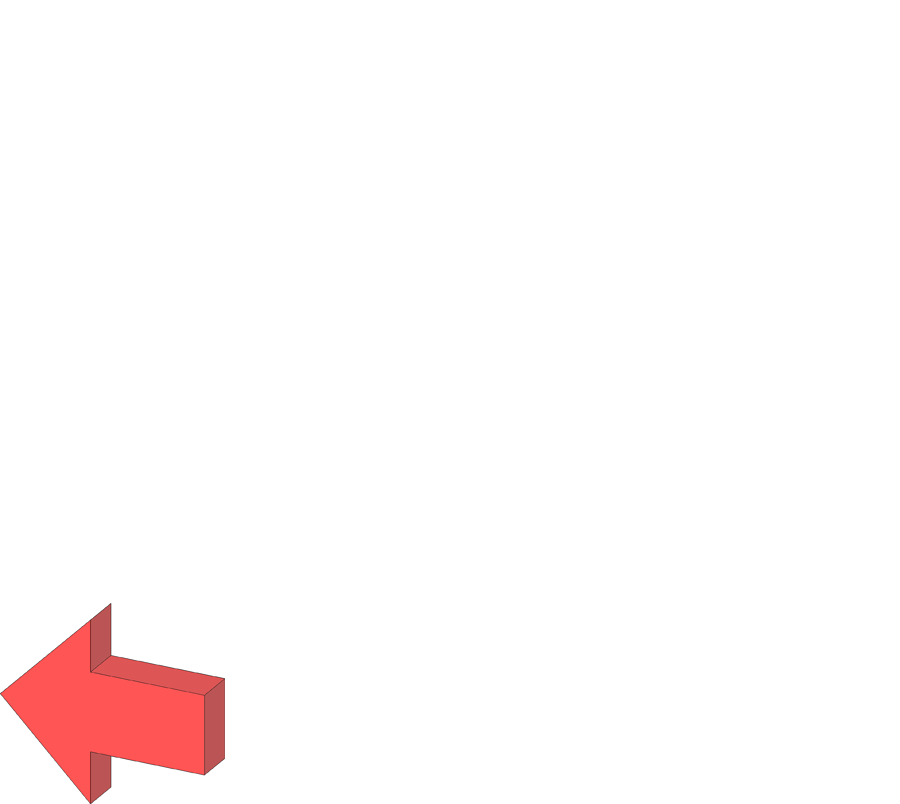
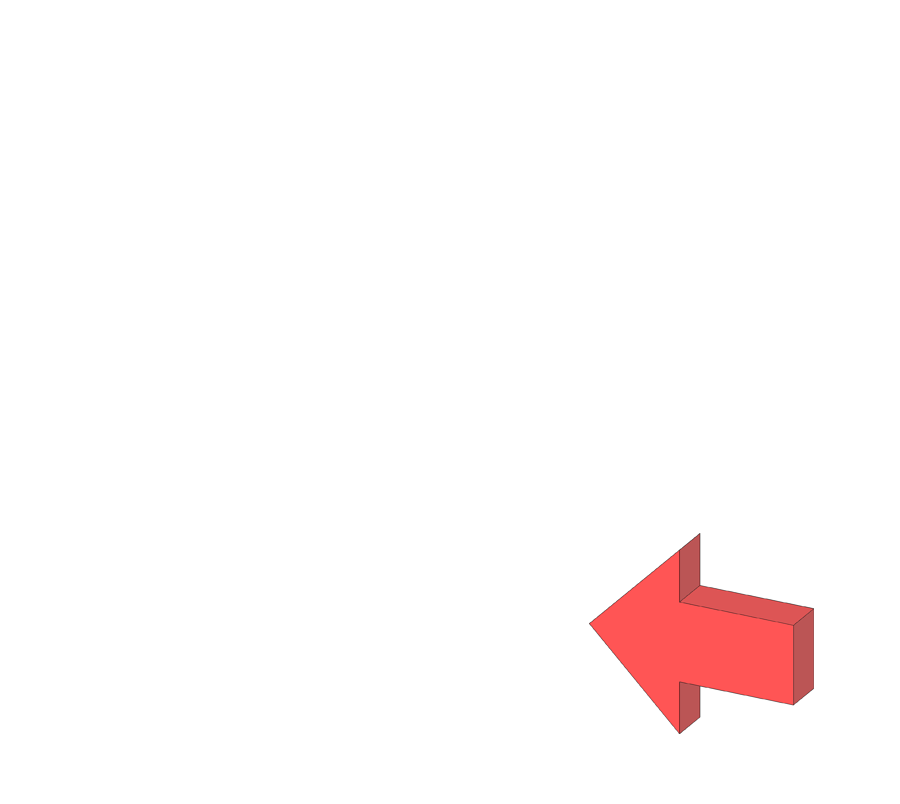
fixed flipped arrows, added space to them. Updated tester to feature new string states instead of numbers for sidewalk state. Commented out some pangolin stuff

Changed region(s): [[0.6533, 0.653, 0.9022, 0.9328], [0.0, 0.7463, 0.2489, 1.0]]

diff --git a/display.py b/display.py
@@ -2,7 +2,7 @@ import sys
 import cv2
 import math
 import pygame
-import pangolin as pango
+# import pango
 from OpenGL.GL import *
 import numpy as np
 import PIL
@@ -88,42 +88,42 @@ class Display:
                              "fire hydrant": ((0, 255, 255)),
                              "bench": ((200, 100, 200))}
         if self.dimension == 3:
-            # initialize pangolin opengl 3d viewer
+        #     # initialize pangolin opengl 3d viewer
             print("Initializing pangolin opengl 3d viewer")
-
-            self.win = pango.CreateWindowAndBind("Visualization Tool 3d", self.size[0], self.size[1])
-            glEnable(GL_DEPTH_TEST)
-
-            # Define Projection and initial ModelView matrix
-
-            #   ProjectionMatrix (int w, int h, double fu, double fv, double u0, double v0, double zNear, double zFar)
-            self.pm = pango.ProjectionMatrix(640, 480, 420, 420, 320, 240, 0.5, 100)
-
-            # This allows changing of "camera" angle : glulookat style model view matrix (x, y, z, lx, ly, lz, AxisDirection Up) Forward is -z and up is +y
-            self.mv = pango.ModelViewLookAt(0.3, 0, -2.5,
-                                       0, 0, 0,
-                                       0, -1, 0)
-            '''
-            The gluLookAt function provides an easy and intuitive way to set the camera position and orientation. Basically it has three groups of parameters, each one is composed of 3 floating point values. The first three values indicate the camera position. The second set of values defines the point we’re looking at. Actually it can be any point in our line of sight.The last group indicates the up vector, this is usually set to (0.0, 1.0, 0.0), meaning that the camera’s is not tilted. If you want to tilt the camera just play with these values. For example, to see everything upside down try (0.0, -1.0, 0.0).
-            '''
-
-            self.s_cam = pango.OpenGlRenderState(self.pm, self.mv)
-
-            # Create Interactive View in window
-            self.handler = pango.Handler3D(self.s_cam)
-            self.d_cam = (
-                pango.CreateDisplay()
-                .SetBounds(
-                    pango.Attach(0),
-                    pango.Attach(1),
-                    pango.Attach.Pix(1), # side bar which can be used for notification system
-                    pango.Attach(1),
-                    -640.0 / 480.0,
-                )
-                .SetHandler(self.handler)
-            )
-            glLineWidth(5)
-            glPointSize(15)
+        #
+        #     self.win = pango.CreateWindowAndBind("Visualization Tool 3d", self.size[0], self.size[1])
+        #     glEnable(GL_DEPTH_TEST)
+        #
+        #     # Define Projection and initial ModelView matrix
+        #
+        #     #   ProjectionMatrix (int w, int h, double fu, double fv, double u0, double v0, double zNear, double zFar)
+        #     self.pm = pango.ProjectionMatrix(640, 480, 420, 420, 320, 240, 0.5, 100)
+        #
+        #     # This allows changing of "camera" angle : glulookat style model view matrix (x, y, z, lx, ly, lz, AxisDirection Up) Forward is -z and up is +y
+        #     self.mv = pango.ModelViewLookAt(0.3, 0, -2.5,
+        #                                0, 0, 0,
+        #                                0, -1, 0)
+        #     '''
+        #     The gluLookAt function provides an easy and intuitive way to set the camera position and orientation. Basically it has three groups of parameters, each one is composed of 3 floating point values. The first three values indicate the camera position. The second set of values defines the point we’re looking at. Actually it can be any point in our line of sight.The last group indicates the up vector, this is usually set to (0.0, 1.0, 0.0), meaning that the camera’s is not tilted. If you want to tilt the camera just play with these values. For example, to see everything upside down try (0.0, -1.0, 0.0).
+        #     '''
+        #
+        #     self.s_cam = pango.OpenGlRenderState(self.pm, self.mv)
+        #
+        #     # Create Interactive View in window
+        #     self.handler = pango.Handler3D(self.s_cam)
+        #     self.d_cam = (
+        #         pango.CreateDisplay()
+        #         .SetBounds(
+        #             pango.Attach(0),
+        #             pango.Attach(1),
+        #             pango.Attach.Pix(1), # side bar which can be used for notification system
+        #             pango.Attach(1),
+        #             -640.0 / 480.0,
+        #         )
+        #         .SetHandler(self.handler)
+        #     )
+        #     glLineWidth(5)
+        #     glPointSize(15)
         elif self.dimension == 2:
             # initialize cv2 2d viewer
             print("Initializing cv2 2d viewer")
@@ -133,92 +133,93 @@ class Display:
         self.frame = cv2.resize(orig_cap, self.size)
     def putSidewalkState(self, state):
         if state == "Left of Sidewalk":
-            self.showLeft()
+            self.showRight()
         if state == "Middle of Sidewalk":
             self.showForward()
         if(state == "Right of Sidewalk"):
-            self.showRight()
+            self.showLeft()
         # nolan this is yours
     def displayScreen(self):
             if self.dimension == 3:
                 print("pangolin texture update")
-                if not pango.ShouldQuit():
-                    glClear(GL_COLOR_BUFFER_BIT | GL_DEPTH_BUFFER_BIT)
-                    glClearColor(0.5, 0.7, 0.7, 0.0)
-                    glLineWidth(5)
-                    glPointSize(15)
-                    # z axis (+)  is toward self
-                    pango.DrawLine([[-1, 1, 0], [-1, 1, -0.3]])  # down is positive y, right is positive x - this does bottom left
-                    pango.DrawLine([[1, -1, 0], [1, -1, -0.3]])  # top right
-                    pango.DrawLine([[-1, -1, 0], [-1, -1, -0.3]])  # top left
-                    pango.DrawLine([[1, 1, 0], [1, 1, -0.3]])  # bottom right
-                    pango.DrawPoints([[-1, 1, -0.3], [1, -1, -0.3], [-1, -1, -0.3], [1, 1, -0.3]])
-
-                    texture_data = cv2.rotate(cv2.cvtColor(cv2.resize(self.frame, (1400, 1400)), cv2.COLOR_BGR2RGBA), cv2.ROTATE_180)
-                    height, width, _ = texture_data.shape
-
-                    glEnable(GL_TEXTURE_2D)
-                    self.texid = glGenTextures(1)
-
-                    glBindTexture(GL_TEXTURE_2D, self.texid)
-                    glTexImage2D(GL_TEXTURE_2D, 0, GL_RGB, width, height,
-                                 0, GL_RGBA, GL_UNSIGNED_BYTE, texture_data)
-
-                    glTexParameteri(GL_TEXTURE_2D, GL_TEXTURE_MIN_FILTER, GL_NEAREST)
-                    glTexParameteri(GL_TEXTURE_2D, GL_TEXTURE_MAG_FILTER, GL_NEAREST)
-                    glTexParameteri(GL_TEXTURE_2D, GL_TEXTURE_WRAP_S, GL_CLAMP)
-                    glTexParameteri(GL_TEXTURE_2D, GL_TEXTURE_WRAP_T, GL_CLAMP)
-
-                    self.d_cam.Activate(self.s_cam)
-
-                    glBegin(GL_QUADS)
-
-                    glVertex3f(1.0, 1.0, -0.025)
-                    glVertex3f(-1.0, 1.0, -0.025)
-                    glVertex3f(-1.0, 1.0, 0.025)
-                    glVertex3f(1.0, 1.0, 0.025)
-
-                    glVertex3f(1.0, -1.0, -0.025)
-                    glVertex3f(-1.0, -1.0, -0.025)
-                    glVertex3f(-1.0, -1.0, 0.025)
-                    glVertex3f(1.0, -1.0, 0.025)
-
-
-                    glTexCoord2f(0.0, 0.0)
-                    glVertex3f(1.0, 1.0, 0.025)
-                    glTexCoord2f(1.0, 0.0)
-                    glVertex3f(-1.0, 1.0, 0.025)
-                    glTexCoord2f(1.0, 1.0)
-                    glVertex3f(-1.0, -1.0, 0.025)
-                    glTexCoord2f(0.0, 1.0)
-                    glVertex3f(1.0, -1.0, 0.025)
-
-
-                    glTexCoord2f(0.0, 1.0)
-                    glVertex3f(1.0, -1.0, -0.025)
-                    glTexCoord2f(1.0, 1.0)
-                    glVertex3f(-1.0, -1.0, -0.025)
-                    glTexCoord2f(1.0, 0.0)
-                    glVertex3f(-1.0, 1.0, -0.025)
-                    glTexCoord2f(0.0, 0.0)
-                    glVertex3f(1.0, 1.0, -0.025)
-
-                    glVertex3f(-1.0, 1.0, 0.025)
-                    glVertex3f(-1.0, 1.0, -0.025)
-                    glVertex3f(-1.0, -1.0, -0.025)
-                    glVertex3f(-1.0, -1.0, 0.025)
-
-                    glVertex3f(1.0, 1.0, 0.025)
-                    glVertex3f(1.0, 1.0, -0.025)
-                    glVertex3f(1.0, -1.0, -0.025)
-                    glVertex3f(1.0, -1.0, 0.025)
-
-                    glEnd()
-
-                    # Swap Frames and Process Events
-                    pango.FinishFrame()
-
-                    glDeleteTextures(self.texid)
+                #comment this stuff back in when using pango
+                # if not pango.ShouldQuit():
+                #     glClear(GL_COLOR_BUFFER_BIT | GL_DEPTH_BUFFER_BIT)
+                #     glClearColor(0.5, 0.7, 0.7, 0.0)
+                #     glLineWidth(5)
+                #     glPointSize(15)
+                #     # z axis (+)  is toward self
+                #     pango.DrawLine([[-1, 1, 0], [-1, 1, -0.3]])  # down is positive y, right is positive x - this does bottom left
+                #     pango.DrawLine([[1, -1, 0], [1, -1, -0.3]])  # top right
+                #     pango.DrawLine([[-1, -1, 0], [-1, -1, -0.3]])  # top left
+                #     pango.DrawLine([[1, 1, 0], [1, 1, -0.3]])  # bottom right
+                #     pango.DrawPoints([[-1, 1, -0.3], [1, -1, -0.3], [-1, -1, -0.3], [1, 1, -0.3]])
+                #
+                #     texture_data = cv2.rotate(cv2.cvtColor(cv2.resize(self.frame, (1400, 1400)), cv2.COLOR_BGR2RGBA), cv2.ROTATE_180)
+                #     height, width, _ = texture_data.shape
+                #
+                #     glEnable(GL_TEXTURE_2D)
+                #     self.texid = glGenTextures(1)
+                #
+                #     glBindTexture(GL_TEXTURE_2D, self.texid)
+                #     glTexImage2D(GL_TEXTURE_2D, 0, GL_RGB, width, height,
+                #                  0, GL_RGBA, GL_UNSIGNED_BYTE, texture_data)
+                #
+                #     glTexParameteri(GL_TEXTURE_2D, GL_TEXTURE_MIN_FILTER, GL_NEAREST)
+                #     glTexParameteri(GL_TEXTURE_2D, GL_TEXTURE_MAG_FILTER, GL_NEAREST)
+                #     glTexParameteri(GL_TEXTURE_2D, GL_TEXTURE_WRAP_S, GL_CLAMP)
+                #     glTexParameteri(GL_TEXTURE_2D, GL_TEXTURE_WRAP_T, GL_CLAMP)
+                #
+                #     self.d_cam.Activate(self.s_cam)
+                #
+                #     glBegin(GL_QUADS)
+                #
+                #     glVertex3f(1.0, 1.0, -0.025)
+                #     glVertex3f(-1.0, 1.0, -0.025)
+                #     glVertex3f(-1.0, 1.0, 0.025)
+                #     glVertex3f(1.0, 1.0, 0.025)
+                #
+                #     glVertex3f(1.0, -1.0, -0.025)
+                #     glVertex3f(-1.0, -1.0, -0.025)
+                #     glVertex3f(-1.0, -1.0, 0.025)
+                #     glVertex3f(1.0, -1.0, 0.025)
+                #
+                #
+                #     glTexCoord2f(0.0, 0.0)
+                #     glVertex3f(1.0, 1.0, 0.025)
+                #     glTexCoord2f(1.0, 0.0)
+                #     glVertex3f(-1.0, 1.0, 0.025)
+                #     glTexCoord2f(1.0, 1.0)
+                #     glVertex3f(-1.0, -1.0, 0.025)
+                #     glTexCoord2f(0.0, 1.0)
+                #     glVertex3f(1.0, -1.0, 0.025)
+                #
+                #
+                #     glTexCoord2f(0.0, 1.0)
+                #     glVertex3f(1.0, -1.0, -0.025)
+                #     glTexCoord2f(1.0, 1.0)
+                #     glVertex3f(-1.0, -1.0, -0.025)
+                #     glTexCoord2f(1.0, 0.0)
+                #     glVertex3f(-1.0, 1.0, -0.025)
+                #     glTexCoord2f(0.0, 0.0)
+                #     glVertex3f(1.0, 1.0, -0.025)
+                #
+                #     glVertex3f(-1.0, 1.0, 0.025)
+                #     glVertex3f(-1.0, 1.0, -0.025)
+                #     glVertex3f(-1.0, -1.0, -0.025)
+                #     glVertex3f(-1.0, -1.0, 0.025)
+                #
+                #     glVertex3f(1.0, 1.0, 0.025)
+                #     glVertex3f(1.0, 1.0, -0.025)
+                #     glVertex3f(1.0, -1.0, -0.025)
+                #     glVertex3f(1.0, -1.0, 0.025)
+                #
+                #     glEnd()
+                #
+                #     # Swap Frames and Process Events
+                #     pango.FinishFrame()
+                #
+                #     glDeleteTextures(self.texid)
 
             else:
                 # nolan just do cv2 imshow

diff --git a/display_tester.py b/display_tester.py
@@ -12,7 +12,7 @@ while True:
     capture = video.read(0)[1]
     display.putVideoFrame(capture)
     display.putObjects(obs)
-    display.putSidewalkState(1)
+    display.putSidewalkState("Left of Sidewalk")
     #obs[0][2][0] -= 3
 
     display.displayScreen()
